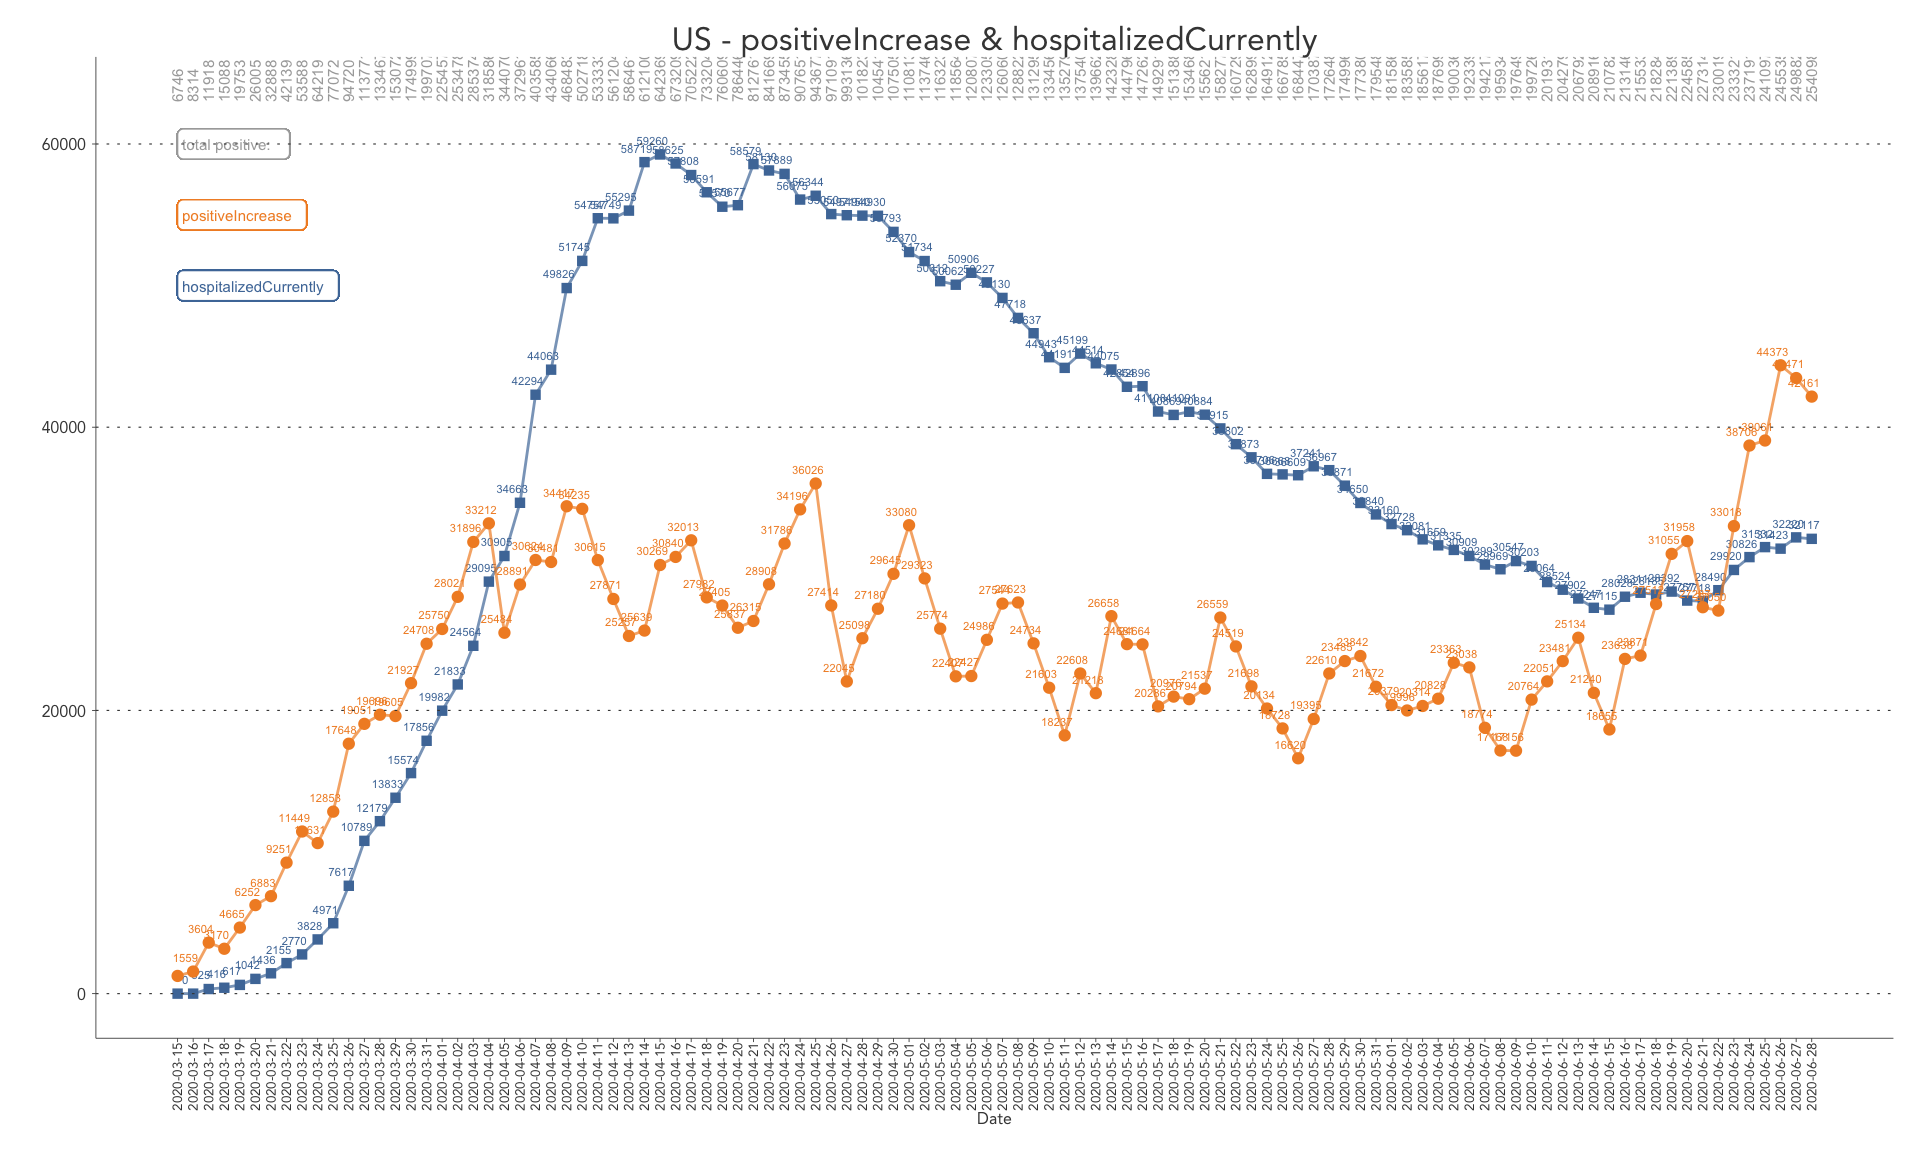
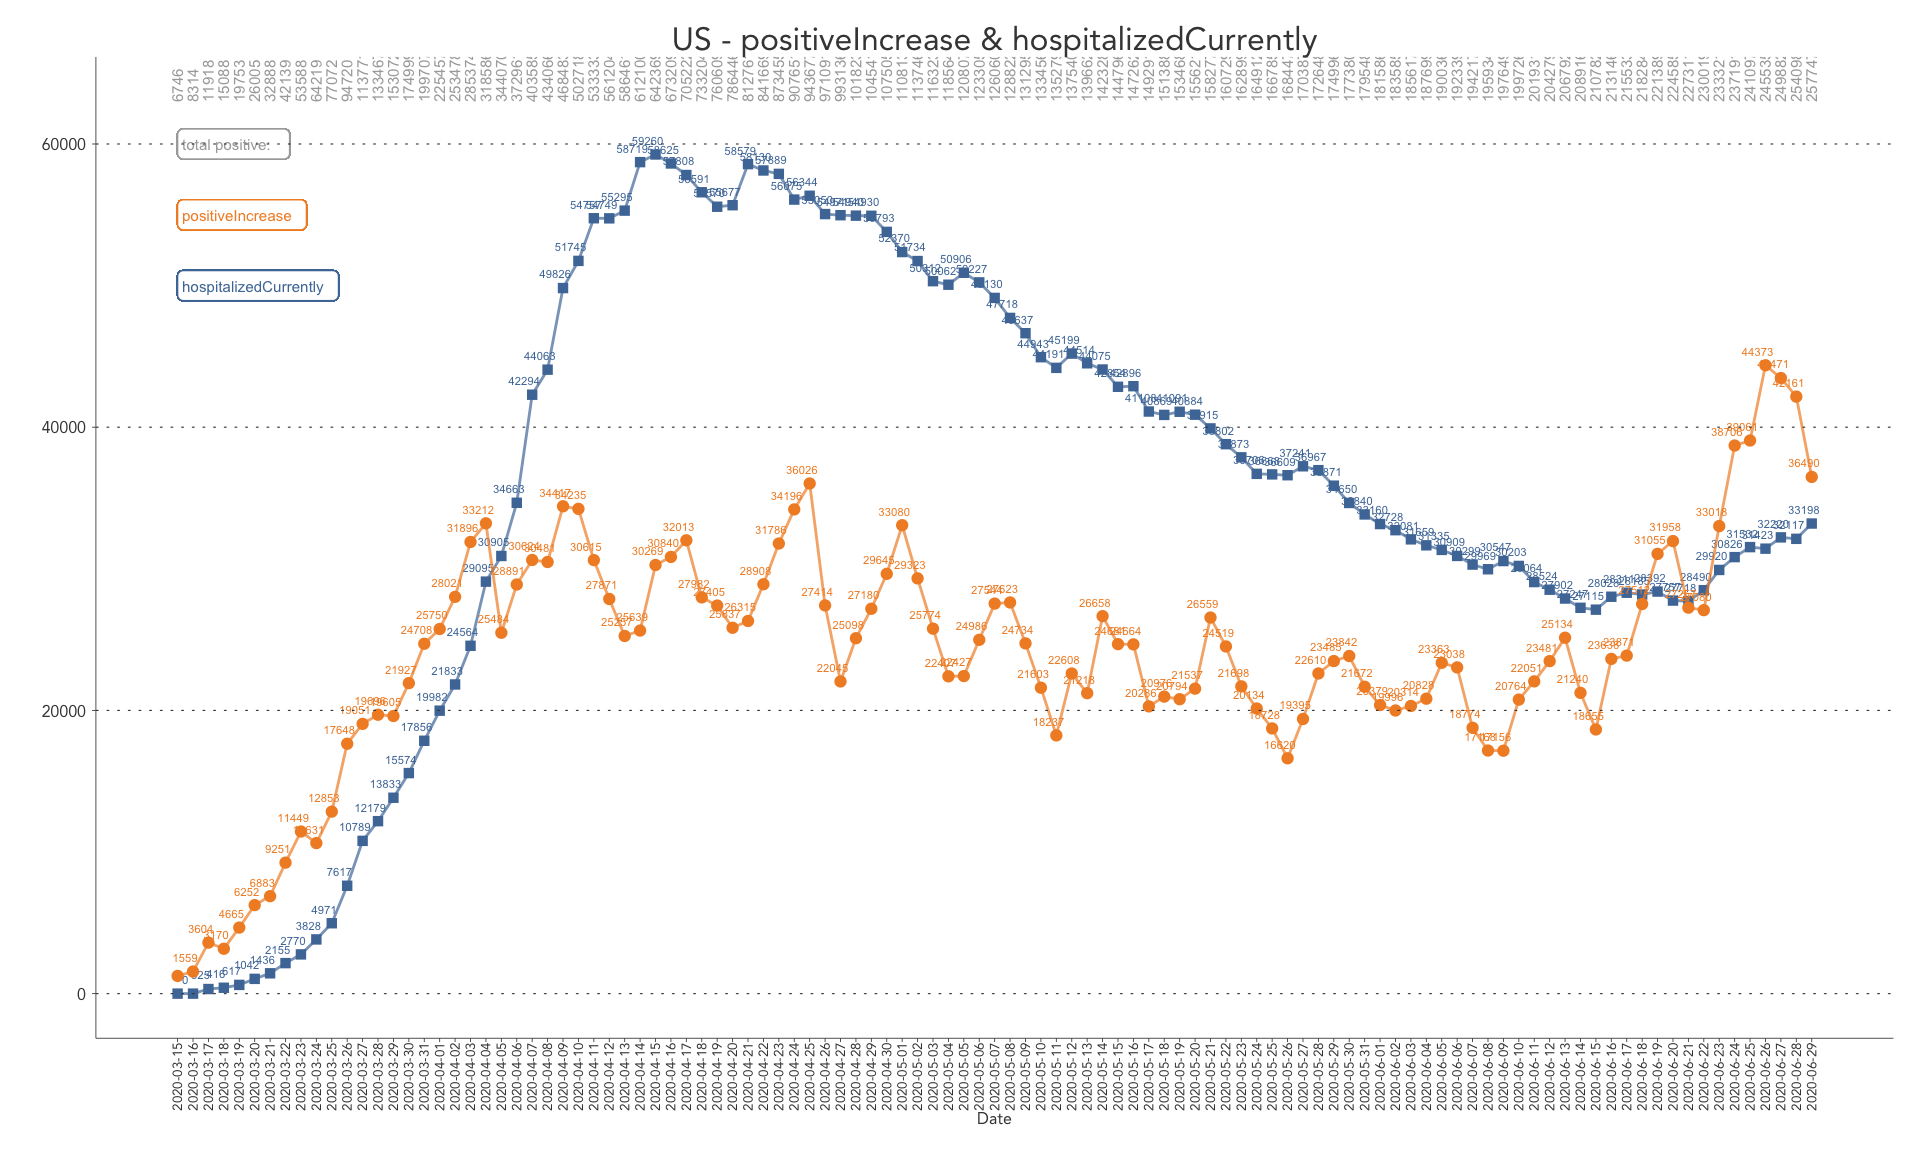
0629 up

diff --git a/covid19-vis.html b/covid19-vis.html
@@ -305,22 +305,22 @@ population
 <tbody>
 <tr>
 <td style="text-align:left;">
-2020-06-28
+2020-06-29
 </td>
 <td style="text-align:left;">
 AK
 </td>
 <td style="text-align:right;">
-883
+904
 </td>
 <td style="text-align:right;">
-107417
+107805
 </td>
 <td style="text-align:right;">
 0
 </td>
 <td style="text-align:right;">
-12
+16
 </td>
 <td style="text-align:right;">
 0
@@ -338,19 +338,19 @@ AK
 0
 </td>
 <td style="text-align:right;">
-521
+525
 </td>
 <td style="text-align:left;">
 A
 </td>
 <td style="text-align:left;">
-6/28/2020 00:00
+6/29/2020 00:00
 </td>
 <td style="text-align:left;">
-2020-06-28T00:00:00Z
+2020-06-29T00:00:00Z
 </td>
 <td style="text-align:left;">
-06/27 20:00
+06/28 20:00
 </td>
 <td style="text-align:right;">
 14
@@ -359,10 +359,10 @@ A
 0
 </td>
 <td style="text-align:left;">
-2020-06-28T00:00:00Z
+2020-06-29T00:00:00Z
 </td>
 <td style="text-align:right;">
-108300
+108709
 </td>
 <td style="text-align:right;">
 0
@@ -377,22 +377,22 @@ A
 2
 </td>
 <td style="text-align:right;">
-29
+21
 </td>
 <td style="text-align:right;">
-2690
+388
 </td>
 <td style="text-align:right;">
-108300
+108709
 </td>
 <td style="text-align:right;">
-108300
+108709
 </td>
 <td style="text-align:right;">
-2719
+409
 </td>
 <td style="text-align:right;">
-108300
+108709
 </td>
 <td style="text-align:right;">
 0
@@ -401,7 +401,7 @@ A
 0
 </td>
 <td style="text-align:left;">
-61f0e987f53033504c83b57eba92ca6b8301f82f
+a86a3dc4bfbba3e423434858dd4e5230e6ba9753
 </td>
 <td style="text-align:right;">
 0
@@ -427,37 +427,37 @@ A
 </tr>
 <tr>
 <td style="text-align:left;">
-2020-06-28
+2020-06-29
 </td>
 <td style="text-align:left;">
 AL
 </td>
 <td style="text-align:right;">
-35441
+37175
 </td>
 <td style="text-align:right;">
-350839
-</td>
-<td style="text-align:right;">
-0
-</td>
-<td style="text-align:right;">
-655
-</td>
-<td style="text-align:right;">
-2703
+356118
 </td>
 <td style="text-align:right;">
 0
 </td>
 <td style="text-align:right;">
-790
+715
+</td>
+<td style="text-align:right;">
+2725
 </td>
 <td style="text-align:right;">
 0
 </td>
 <td style="text-align:right;">
-454
+801
+</td>
+<td style="text-align:right;">
+0
+</td>
+<td style="text-align:right;">
+457
 </td>
 <td style="text-align:right;">
 18866
@@ -466,22 +466,22 @@ AL
 B
 </td>
 <td style="text-align:left;">
-6/28/2020 11:00
+6/29/2020 11:00
 </td>
 <td style="text-align:left;">
-2020-06-28T11:00:00Z
+2020-06-29T11:00:00Z
 </td>
 <td style="text-align:left;">
-06/28 07:00
+06/29 07:00
 </td>
 <td style="text-align:right;">
-919
+929
 </td>
 <td style="text-align:right;">
-2703
+2725
 </td>
 <td style="text-align:left;">
-2020-06-28T11:00:00Z
+2020-06-29T11:00:00Z
 </td>
 <td style="text-align:right;">
 0
@@ -493,37 +493,37 @@ B
 0
 </td>
 <td style="text-align:right;">
-34964
+36682
 </td>
 <td style="text-align:right;">
 1
 </td>
 <td style="text-align:right;">
-358
+1734
 </td>
 <td style="text-align:right;">
-1896
+5279
 </td>
 <td style="text-align:right;">
-386280
+393293
 </td>
 <td style="text-align:right;">
-386280
+393293
 </td>
 <td style="text-align:right;">
-2254
+7013
 </td>
 <td style="text-align:right;">
-386280
+393293
 </td>
 <td style="text-align:right;">
-0
+10
 </td>
 <td style="text-align:right;">
-6
+22
 </td>
 <td style="text-align:left;">
-e77ed44903fbc89d23369bddb764747fb22c1846
+de21472ac462718d75201c8e93e01f28b9542e9f
 </td>
 <td style="text-align:right;">
 0
@@ -549,25 +549,25 @@ e77ed44903fbc89d23369bddb764747fb22c1846
 </tr>
 <tr>
 <td style="text-align:left;">
-2020-06-28
+2020-06-29
 </td>
 <td style="text-align:left;">
 AR
 </td>
 <td style="text-align:right;">
-19310
+20257
 </td>
 <td style="text-align:right;">
-271912
+282279
 </td>
 <td style="text-align:right;">
 0
 </td>
 <td style="text-align:right;">
-278
+300
 </td>
 <td style="text-align:right;">
-1373
+1380
 </td>
 <td style="text-align:right;">
 0
@@ -579,31 +579,31 @@ AR
 63
 </td>
 <td style="text-align:right;">
-210
+211
 </td>
 <td style="text-align:right;">
-13270
+14066
 </td>
 <td style="text-align:left;">
 A
 </td>
 <td style="text-align:left;">
-6/27/2020 19:00
+6/29/2020 14:36
 </td>
 <td style="text-align:left;">
-2020-06-27T19:00:00Z
+2020-06-29T14:36:00Z
 </td>
 <td style="text-align:left;">
-06/27 15:00
+06/29 10:36
 </td>
 <td style="text-align:right;">
-259
+265
 </td>
 <td style="text-align:right;">
-1373
+1380
 </td>
 <td style="text-align:left;">
-2020-06-27T19:00:00Z
+2020-06-29T14:36:00Z
 </td>
 <td style="text-align:right;">
 0
@@ -615,37 +615,37 @@ A
 0
 </td>
 <td style="text-align:right;">
-19310
+20257
 </td>
 <td style="text-align:right;">
 5
 </td>
 <td style="text-align:right;">
-570
+947
 </td>
 <td style="text-align:right;">
-6687
+10367
 </td>
 <td style="text-align:right;">
-291222
+302536
 </td>
 <td style="text-align:right;">
-291222
+302536
 </td>
 <td style="text-align:right;">
-7257
+11314
 </td>
 <td style="text-align:right;">
-291222
+302536
 </td>
 <td style="text-align:right;">
-10
+6
 </td>
 <td style="text-align:right;">
-36
+7
 </td>
 <td style="text-align:left;">
-cf7dc4fed80d9e5f146805466ac46a86be03500e
+6485f0b6af19d7d02d56b471d22c9095e38dd696
 </td>
 <td style="text-align:right;">
 0
